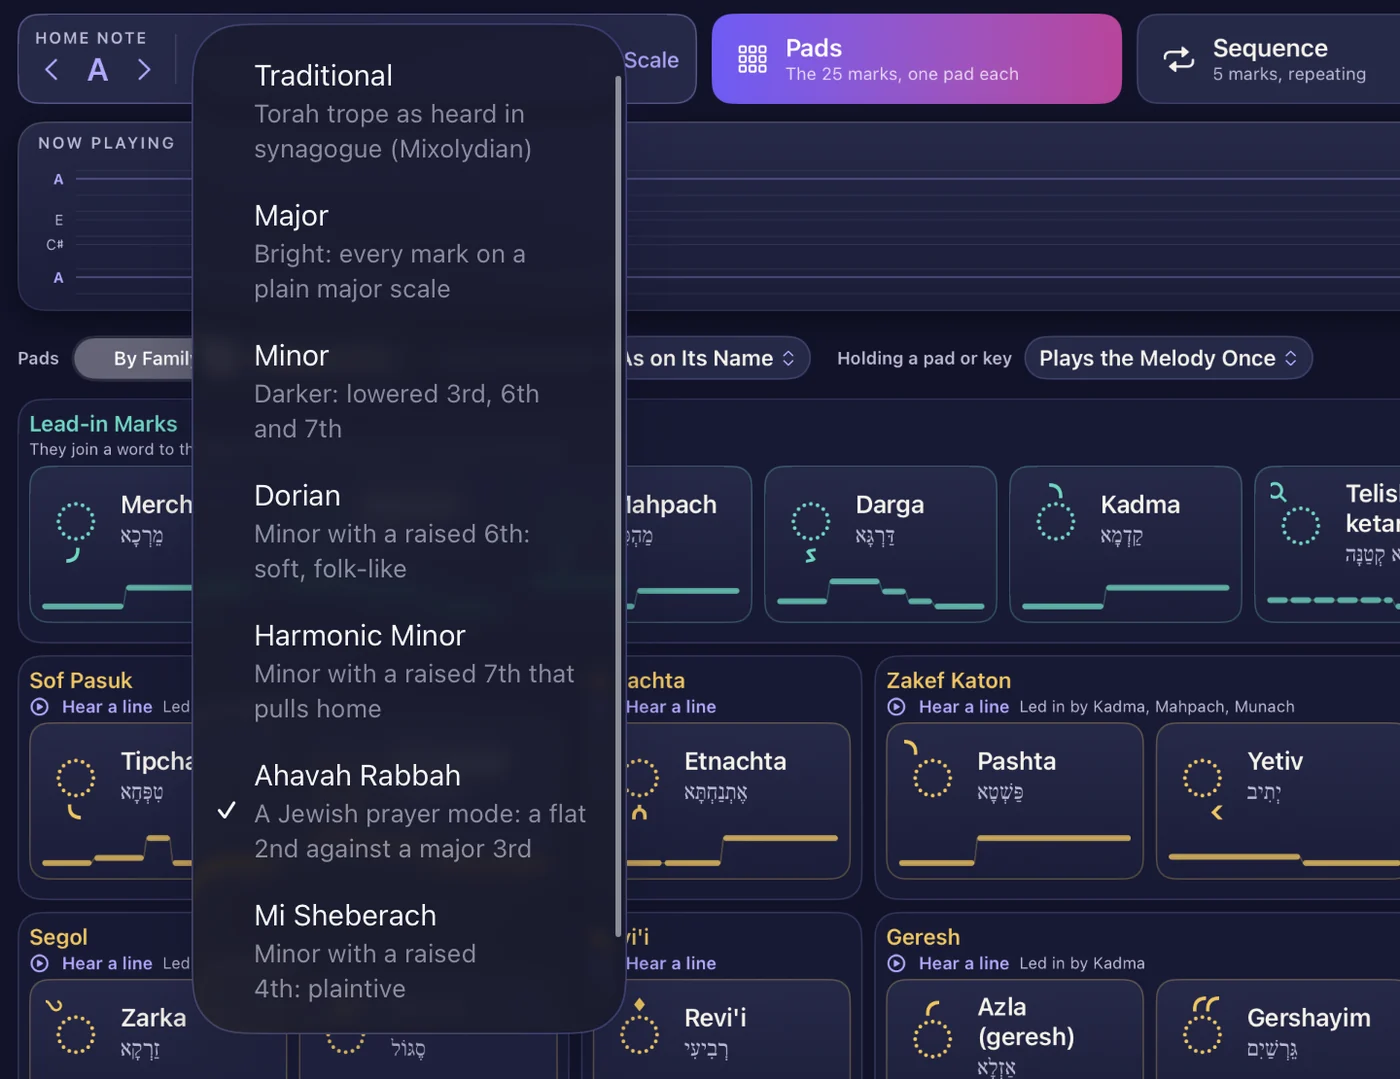
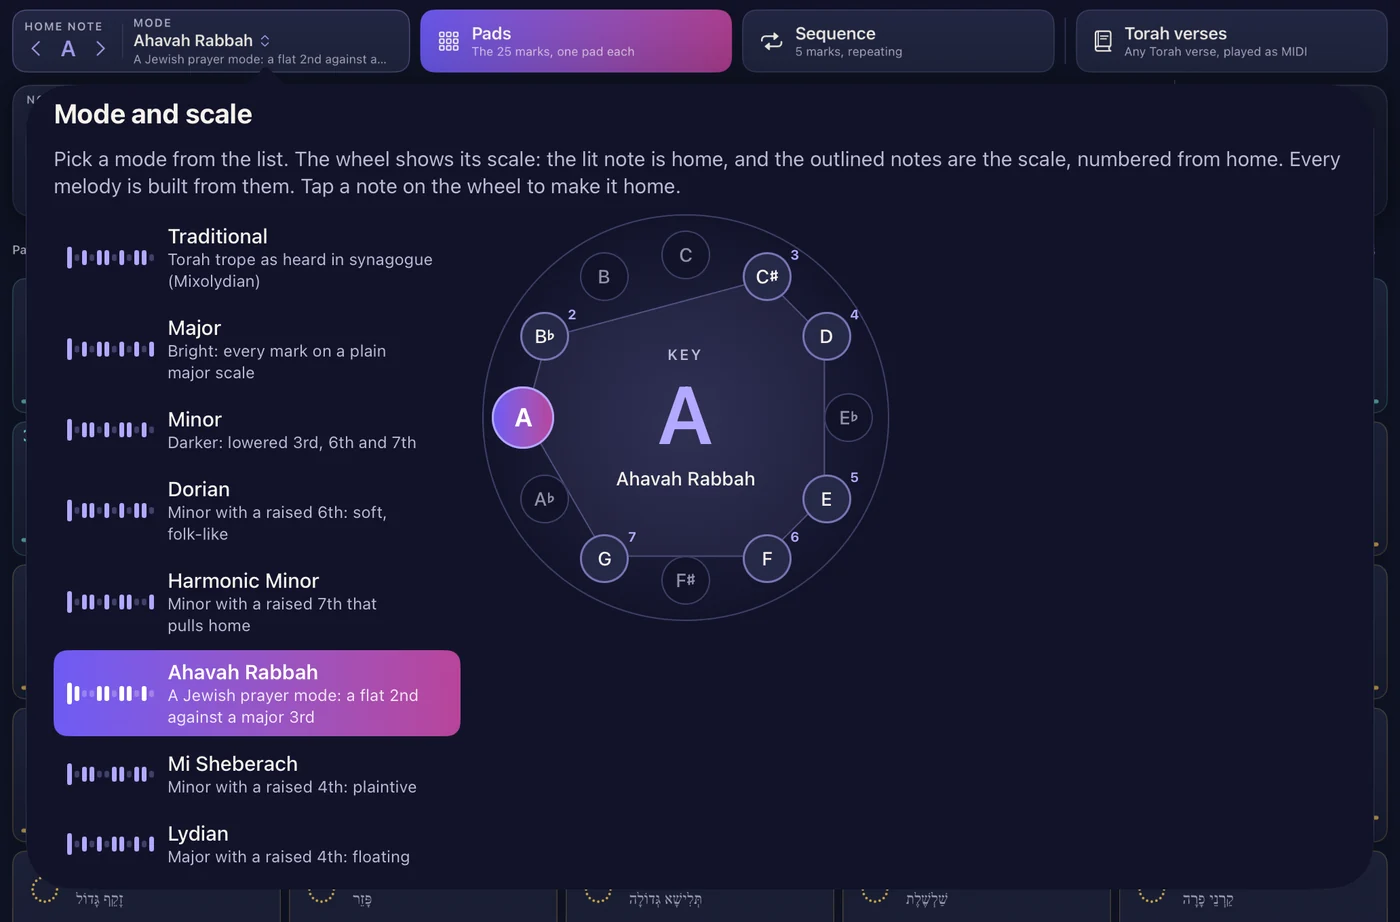
Mode and scale in one place; own pad layouts

diff --git a/index.html b/index.html
@@ -36,38 +36,38 @@
       <a class="store-badge" data-store-live hidden href="#" aria-label="Download Torah Tones on the App Store"><picture><source srcset="img/app-store-badge-white.svg" media="(prefers-color-scheme: dark)"><img src="img/app-store-badge-black.svg" alt="Download on the App Store" width="132" height="44"></picture></a>
       <span class="soon" data-store-soon>Coming to the App Store</span>
   </div>
-  <div class="hero-shot"><img src="img/hero-ipad.webp?v=8" alt="Torah Tones on iPad: a sequence of phrases playing, with the 25 phrase pads below" width="1600" height="1250"></div>
+  <div class="hero-shot"><img src="img/hero-ipad.webp?v=9" alt="Torah Tones on iPad: a sequence of phrases playing, with the 25 phrase pads below" width="1600" height="1250"></div>
 </section>
 
 <div id="features"></div>
 <section class="feature violet">
-  <div class="text"><p class="label">Phrase pads</p><h2>25 phrases. One pad, one key each.</h2><p>Every pad fires a short melodic phrase, with its shape drawn right on the pad. Play them from the screen or from your keyboard, starting at C3, one key per phrase. Chain a few and they queue up in time, so a handful of keys plays a whole line.</p><ul><li>Phrases wait their turn, or cut each other off</li><li>The next phrase can start right away, on the next beat, or on the next bar line</li><li>Hold a key to sustain the phrase's first note, then let go for the rest</li><li>41 ready-made example lines, one tap each</li></ul></div>
-  <div class="pic"><img src="img/play-pads.webp?v=8" alt="The 25 phrase pads, grouped by family, with Sof pasuk playing" loading="lazy" width="1400" height="727"></div>
+  <div class="text"><p class="label">Phrase pads</p><h2>25 phrases. One pad, one key each.</h2><p>Every pad fires a short melodic phrase, with its shape drawn right on the pad. Play them from the screen or from your keyboard, starting at C3, one key per phrase. Chain a few and they queue up in time, so a handful of keys plays a whole line.</p><ul><li>Phrases wait their turn, or cut each other off</li><li>The next phrase can start right away, on the next beat, or on the next bar line</li><li>Hold a key to sustain the phrase's first note, then let go for the rest</li><li>Keep them by family, in keyboard order, or drag them into your own layout</li><li>41 ready-made example lines, one tap each</li></ul></div>
+  <div class="pic"><img src="img/play-pads.webp?v=9" alt="The 25 phrase pads, grouped by family, with Sof pasuk playing" loading="lazy" width="1400" height="727"></div>
 </section>
 
 <section class="feature gold flip">
   <div class="text"><p class="label">Any key, any mode</p><h2>Change key mid-take. Every phrase follows.</h2><p>Each phrase is stored as scale steps, not fixed notes, so it follows you into whatever key and mode you choose: Traditional (Torah trope as heard in synagogue), Major, Minor, Dorian, Lydian, Harmonic Minor, and two Jewish prayer modes: Ahavah Rabbah, with a flat 2nd against a major 3rd, and Mi Sheberach, minor with a raised 4th.</p><ul><li>Change key live with your left hand: one note sets the root, a chord sets major or minor too</li><li>Add a harmony line inside the mode, on its own MIDI channel</li><li>A drone on the root and fifth that follows every key change</li></ul></div>
-  <div class="pic"><img src="img/key.webp?v=8" alt="The home note control and the mode menu, with Ahavah Rabbah chosen" loading="lazy" width="1400" height="1079"></div>
+  <div class="pic"><img src="img/key.webp?v=9" alt="Mode and scale: the eight modes beside a wheel of the scale, Ahavah Rabbah chosen" loading="lazy" width="1400" height="922"></div>
 </section>
 
 <section class="feature pink">
   <div class="text"><p class="label">Sequence</p><h2>Build a sequence in a few taps</h2><p>Tap phrases and rests to lay out a sequence, then let it loop with your host's transport, locked to its bars. It starts over the moment its last note ends, or rounds up to whole bars if you'd rather.</p><ul><li>Rests from half a beat to a bar</li><li>Tap any slot to move it, hear it, swap it or remove it</li></ul></div>
-  <div class="pic"><img src="img/loop.webp?v=8" alt="A sequence of Mercha, Tipcha, Mercha, Sof pasuk and a rest, playing" loading="lazy" width="1400" height="387"></div>
+  <div class="pic"><img src="img/loop.webp?v=9" alt="A sequence of Mercha, Tipcha, Mercha, Sof pasuk and a rest, playing" loading="lazy" width="1400" height="387"></div>
 </section>
 
 <section class="feature teal flip">
   <div class="text"><p class="label">Feel</p><h2>Played, not programmed</h2><p>Humanize the timing, velocity and note lengths. Add rubato that leans into the end of each phrase, and grace notes like a singer's. Flip phrases upside down or play them backwards, at half or double speed, for variations that still sound like they belong.</p></div>
-  <div class="pic narrow"><img src="img/feel.webp?v=8" alt="The Feel settings: timing, humanize and melody shape" loading="lazy" width="1000" height="1202"></div>
+  <div class="pic narrow"><img src="img/feel.webp?v=9" alt="The Feel settings: timing, humanize and melody shape" loading="lazy" width="1000" height="1202"></div>
 </section>
 
 <section class="feature gold">
   <div class="text"><p class="label">The source</p><h2>Or play the real thing: any verse of the Torah</h2><p>Pick a book, chapter and verse, and Torah Tones plays the real passage as MIDI, word by word, each phrase fitted to its syllables, while the Hebrew lights up as it goes. Play the whole passage in time, step through it one word per key press, or loop it on your bar line.</p><ul><li>All Five Books, by chapter and verse or by weekly portion</li><li>English under every verse</li></ul></div>
-  <div class="pic"><img src="img/verses.webp?v=8" alt="Genesis 1:1 to 1:3 being sent as MIDI, one word lit" loading="lazy" width="1400" height="634"></div>
+  <div class="pic"><img src="img/verses.webp?v=9" alt="Genesis 1:1 to 1:3 being sent as MIDI, one word lit" loading="lazy" width="1400" height="634"></div>
 </section>
 
 <section class="feature violet flip">
   <div class="text"><p class="label">New to trope?</p><h2>What you're playing</h2><p>Almost every word of the Hebrew Bible carries a tiny mark called a trope, and each mark stands for a short melody. Chanted in a row, they turn the text into music, and synagogues have sung them this way for well over a thousand years. Learn Trope explains it in seven short steps, with a button to hear every mark.</p><p>Want to learn to chant it yourself? <a href="https://torahturnit.com/">Torah: Turn It</a>, from the same maker, teaches it lesson by lesson.</p></div>
-  <div class="pic narrow"><img src="img/learn.webp?v=8" alt="The Learn Trope page" loading="lazy" width="1000" height="1202"></div>
+  <div class="pic narrow"><img src="img/learn.webp?v=9" alt="The Learn Trope page" loading="lazy" width="1000" height="1202"></div>
 </section>
 
 <section class="hosts">
